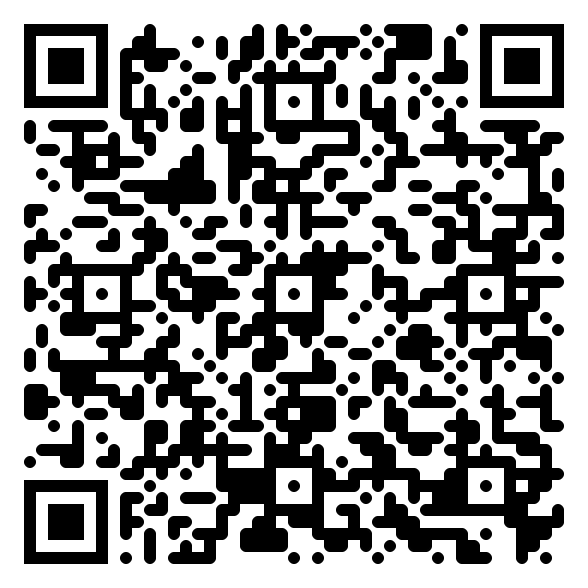
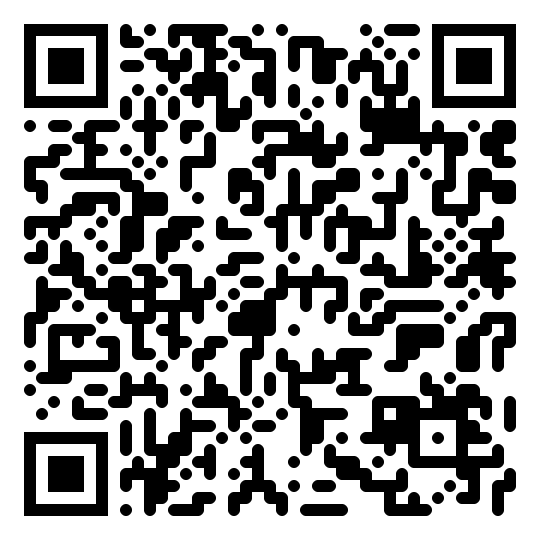
Simplify WhatsApp pre-filled message

diff --git a/index.html b/index.html
@@ -486,8 +486,8 @@ en:{
  "ft.about":"Corporate hotels, flights, transfers and visa solutions. Agency rates, one invoice, 24/7 single contact.","ft.services":"Services","ft.contact":"Contact"
 }};
 const WA = {
- tr:"https://wa.me/908503024913?text="+encodeURIComponent("Merhaba, kurumsal otel rezervasyonu için teklif almak istiyorum."),
- en:"https://wa.me/908503024913?text="+encodeURIComponent("Hello, I'd like a quote for corporate hotel bookings.")
+ tr:"https://wa.me/908503024913?text="+encodeURIComponent("Merhaba, otel rezervasyonu için teklif almak istiyorum."),
+ en:"https://wa.me/908503024913?text="+encodeURIComponent("Hello, I'd like to get a quote for a hotel booking.")
 };
 // capture Turkish defaults from the DOM once
 document.querySelectorAll('[data-i18n]').forEach(el=>{I18N.tr[el.dataset.i18n]=el.innerHTML;});
